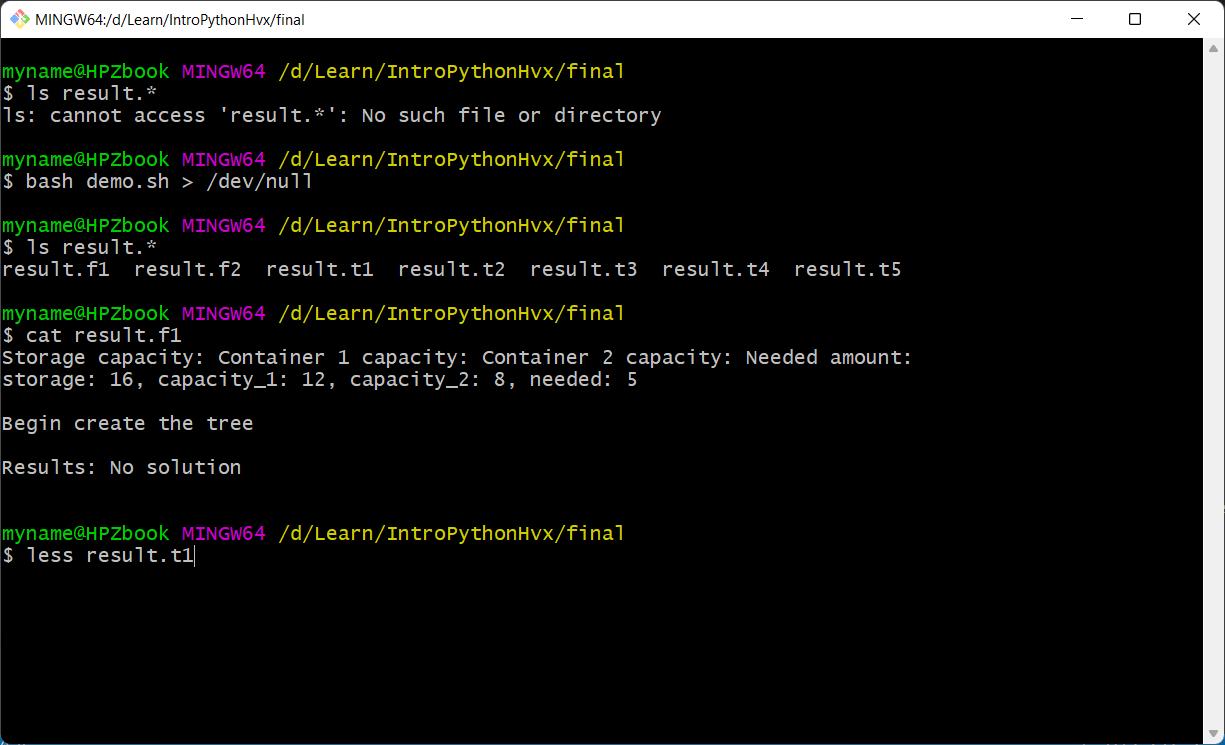
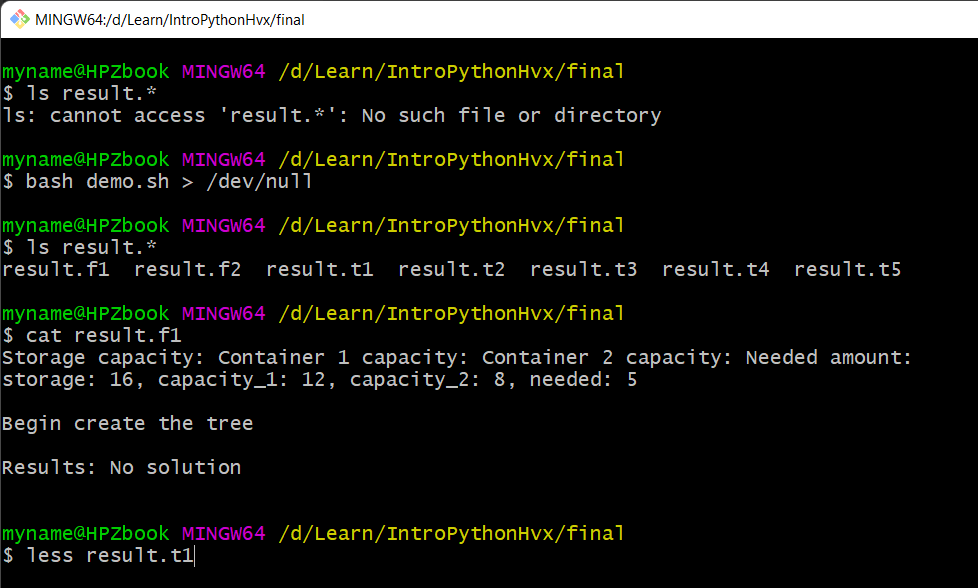
UpdateREADME.md
Adjust the size of 1 image run_mn.png and add some useful commands.

diff --git a/README.md b/README.md
@@ -213,7 +213,8 @@ We create a shell script demo.sh:
 
 Run by command:
 ```
-    $ bash demo.sh
+    $ bash demo.
+    ...
 ```
 
 Too much results, but we can view each correspondent result file.
@@ -223,11 +224,16 @@ Too much results, but we can view each correspondent result file.
 ...
 ![Multiple results](images/run_m2.png)
 
-For easy following, we can redirect output to the /dev/null (simply understanding the null bin) and see each result file.
+For easy following, we can redirect output to the /dev/null (as the null bin) and see each result file.
 
 Run by command:
 ```
     $ bash demo.sh > /dev/null
+    ...
+    $ cat result.f1
+    ...
+    $ less result.t1
+    ...
 ```
 
 ![with /dev/null](images/run_mn.png)
